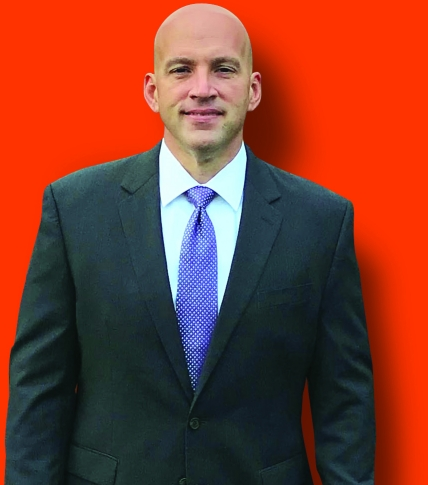
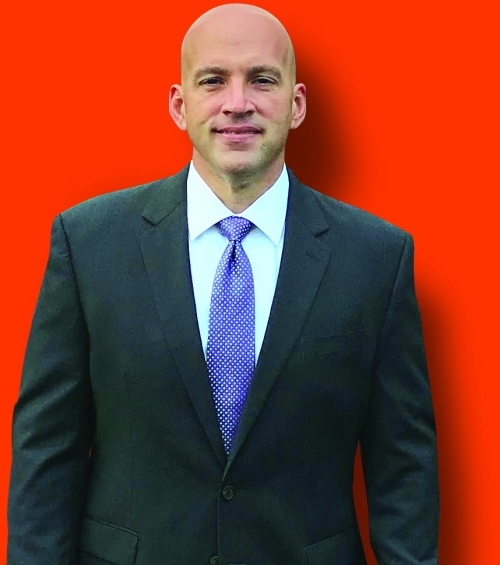
added Adrianna and Michael to bios, resized all pic in bios to 500px wide

diff --git a/pages/the_dstorm_team.php b/pages/the_dstorm_team.php
@@ -108,6 +108,18 @@ if ($settings->site_offline==1){die("The site is currently offline.");}
                     <div class="bio-name" >Anne Malley</div>
                     <img src="images/bio/anne.jpg" class="" style="">
                 </div>
+
+                <div class="bio-pic" data-about="michael">
+                    <div class="bio-name" >Michael Restrepo</div>
+                    <img src="images/bio/michael_restrepo.jpg" class="" style="">
+                </div>
+
+                <div class="bio-pic" data-about="adrianna">
+                    <div class="bio-name" >Adrianna Mosley</div>
+                    <img src="images/bio/adrianna_mosley.jpg" class="" style="">
+                </div>
+
+
                 <div style="clear: both;width: 100%;margin-bottom: 2em"></div>
                 <div class="col-md-offset-0 col-md-11 panel panel-default">
                     <!-- Default panel contents -->
@@ -199,6 +211,38 @@ if ($settings->site_offline==1){die("The site is currently offline.");}
                     </div>
                 </div>
 
+<!--new divs-->
+            <div class=" col-md-6 panel panel-default detail michael">
+                <!-- Default panel contents -->
+                <div class="panel-heading">Michael Restrepo</div>
+                <div class="panel-body">
+                    <div class="bio-pic-large">
+                        <img src="images/bio/michael_restrepo.jpg" class="bio-pic" style="">
+                    </div>
+                    After working as an IT Consultant for 10 Years, Michael has decided to join DStorm Network, Security and
+                    Mobility Consulting. As a Sales Engineer, he is responsible for Designing Complex Customer Solutions,
+                    Configuring Servers, LAN and WAN Configurations, Cable Drops, Router and Switch Installations.
+                    <br><br>
+                    Michael has a Bachelors Degree in Systems Engineering from the University of Santa Maria La Antigua.
+                </div>
+            </div>
+
+
+            <div class=" col-md-6 panel panel-default detail adrianna">
+                <!-- Default panel contents -->
+                <div class="panel-heading">Adrianna Mosley</div>
+                <div class="panel-body">
+                    <div class="bio-pic-large">
+                        <img src="images/bio/adrianna_mosley.jpg" class="bio-pic" style="">
+                    </div>
+                    After working as an Account Manager and Sales Coordinator for 9 years, Adrianna decided to join DStorm
+                    Network, Security and Mobility Consulting. As a Communications Consultant, she is responsible for setting
+                    appointments, driving external relationships, managing installations, and other administrative duties.
+                    <br> <br>
+                    Adrianna has a Bachelor of Business Administration from Belhaven University.
+                </div>
+            </div>
+
 
 
 
@@ -229,7 +273,7 @@ if ($settings->site_offline==1){die("The site is currently offline.");}
         $('.'+ cname).show();
     }
 
-    var rotate_this = ['thomas','randy','indya','maria','anne'];
+    var rotate_this = ['thomas','randy','indya','maria','anne','michael','adrianna'];
     var rotate_index = 0;
 
     function next_image() {
